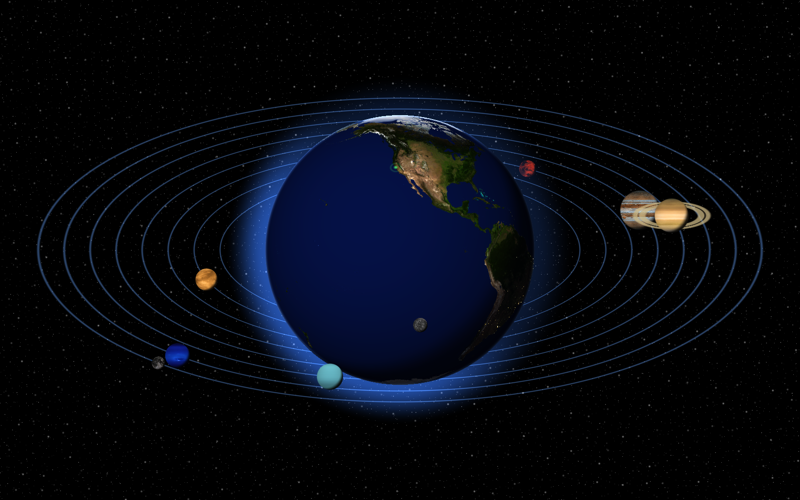
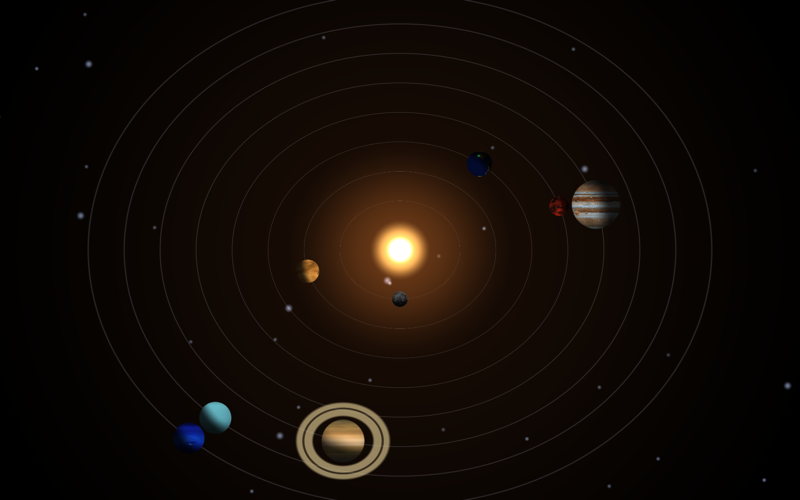
Universe: heliocentric top-down solar system; Black Hole: glow + Stars/Speed
Universe (full redesign to match iOS Solar System look):
- Sun at the centre with a warm glow; planets (incl. Earth) orbit on concentric
  rings in a top-down view, lit by the Sun (phase shading); Saturn rings
- Removed the blurry Earth atmosphere glow; Earth is a small textured planet
  with the location marker. Params: Scale / Speed / Stars / Planet Speed / Orbit Lines

Black Hole:
- Add Stars + Speed params; much gentler camera (slow orbit + drift, no tumble)
- Cinematic bloom glow via a Bloom pass in the preset

Website: gentler + brighter canvas black hole (stars/speed, stronger bloom),
Lab sliders for Starfield + Black Hole, refreshed gallery renders.

diff --git a/Shared/Effects.swift b/Shared/Effects.swift
@@ -217,13 +217,15 @@ enum EffectKind: String, Codable, CaseIterable {
                                  ParamSpec("density", "Density", 4, 40, def: 12),
                                  ParamSpec("warp", "Warp", 0, 1, def: 0.3),
                                  ParamSpec("size", "Star Size", 0.3, 3, def: 1)]
-        case .universe:  return [ParamSpec("earth", "Earth Size", 0.1, 0.45, def: 0.26),
-                                 ParamSpec("spin", "Earth Spin", 0, 3, def: 0.5),
-                                 ParamSpec("stars", "Stars", 3, 30, def: 10),
+        case .universe:  return [ParamSpec("scale", "Scale", 0.5, 1.6, def: 1.0),
+                                 ParamSpec("speed", "Speed", 0, 3, def: 1),
+                                 ParamSpec("stars", "Stars", 0, 2, def: 1),
                                  ParamSpec("planets", "Planet Speed", 0, 3, def: 1),
                                  ParamSpec("orbits", "Orbit Lines", 0, 1, def: 1, toggle: true)]
         case .blackhole: return [ParamSpec("mass", "Mass", 0.15, 0.8, def: 0.4),
                                  ParamSpec("brightness", "Brightness", 1, 10, def: 5),
+                                 ParamSpec("speed", "Speed", 0, 3, def: 1),
+                                 ParamSpec("stars", "Stars", 0, 3, def: 1),
                                  ParamSpec("rot", "Rotation", -15, 15, def: -8.7),
                                  ParamSpec("disk", "Disk Size", 0.5, 1.6, def: 1)]
         }
@@ -308,8 +310,9 @@ extension EffectInstance {
         case .ledPanel:  u.p0 = .init(g("cell"), g("gap"), 0, 0)
         case .nes8bit:   u.p0 = .init(g("cell"), g("scan"), g("sat"), 0)
         case .starfield: u.p0 = .init(g("speed"), g("density"), g("warp"), g("size"))
-        case .universe:  u.p0 = .init(g("earth"), g("spin"), g("stars"), g("planets"))
+        case .universe:  u.p0 = .init(g("scale"), g("speed"), g("stars"), g("planets"))
         case .blackhole: u.p0 = .init(g("mass"), g("brightness"), g("rot"), g("disk"))
+                         u.p1 = .init(g("speed"), g("stars"), 0, 0)
         }
     }
 }

diff --git a/Shared/DefaultPresets.swift b/Shared/DefaultPresets.swift
@@ -119,11 +119,12 @@ enum DefaultPresets {
                    effects: [fx(.starfield, ["speed": 2.2, "density": 16, "warp": 0.9, "size": 1.2],
                                 a: RGBA(0.02, 0.03, 0.08), b: .cyan)]),
             Preset(name: "Universe",
-                   effects: [fx(.universe, ["earth": 0.27, "spin": 0.5, "stars": 10, "planets": 1, "orbits": 1],
+                   effects: [fx(.universe, ["scale": 1.0, "speed": 1, "stars": 1, "planets": 1, "orbits": 1],
                                 a: .black)]),
             Preset(name: "Black Hole",
-                   effects: [fx(.blackhole, ["mass": 0.4, "brightness": 5, "rot": -8.7, "disk": 1],
-                                a: .black)]),
+                   effects: [fx(.blackhole, ["mass": 0.4, "brightness": 5, "speed": 1, "stars": 1, "rot": -8.7, "disk": 1],
+                                a: .black),
+                             fx(.bloom, ["thr": 0.4, "inten": 1.0, "rad": 4.5])]),
         ]
     }
 }
